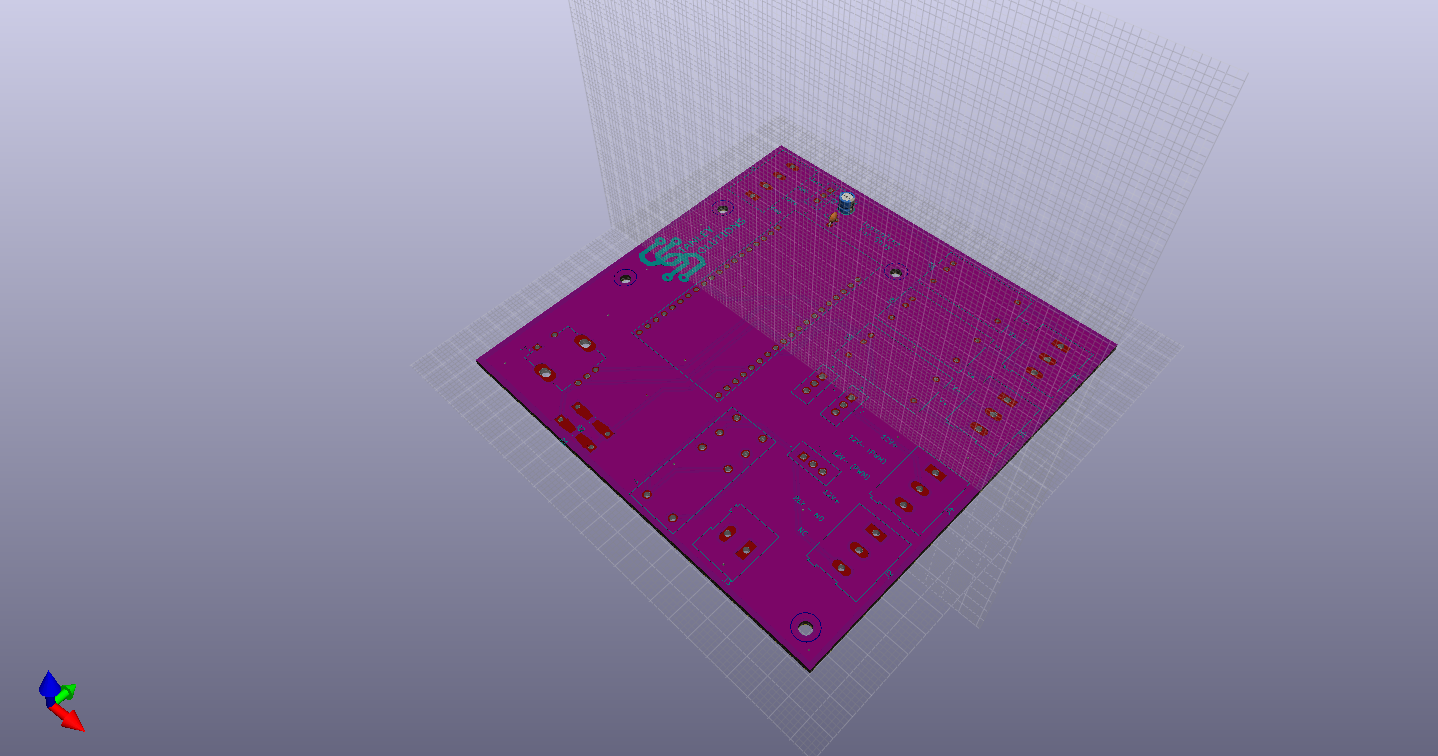
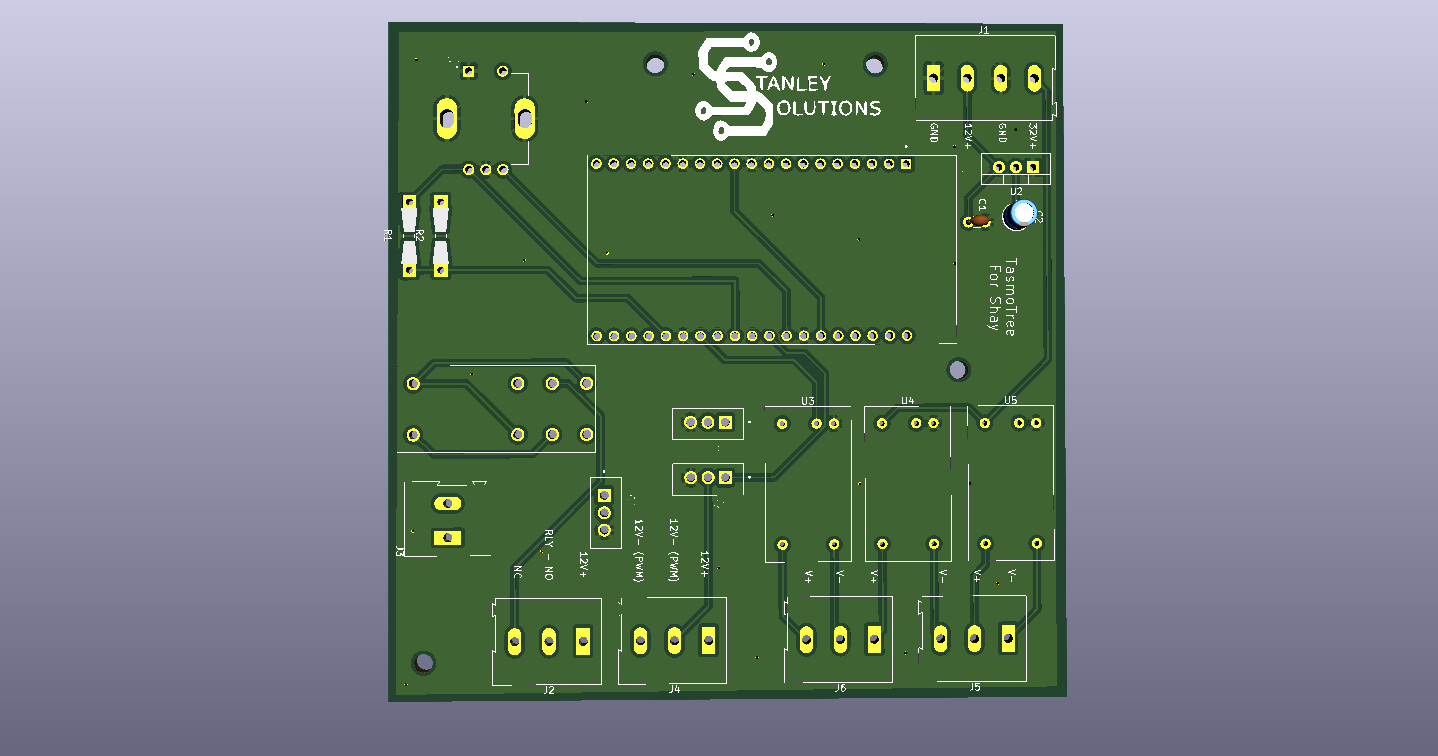
added renders

diff --git a/README.md b/README.md
@@ -6,6 +6,11 @@ This project primarily contains the hardware considerations for a Tasmota-based 
 custom Christmas Tree design which has multiple "layers" or "tiers" which each support and hold parts of a miniature
 villiage.
 
+## Design Render:
+The finalized PCB render is shown here:
+![front](https://github.com/engineerjoe440/TasmoTree/raw/main/TasmoTree/TasmoTree.png)
+![front](https://github.com/engineerjoe440/TasmoTree/raw/main/TasmoTree/TasmoTree_back.png)
+
 ### License:
 This project is ultimately a custom design, but should not be thought of as "private", it is licensed openly such that
 anyone interested may consume the existing design and modify as desired.
